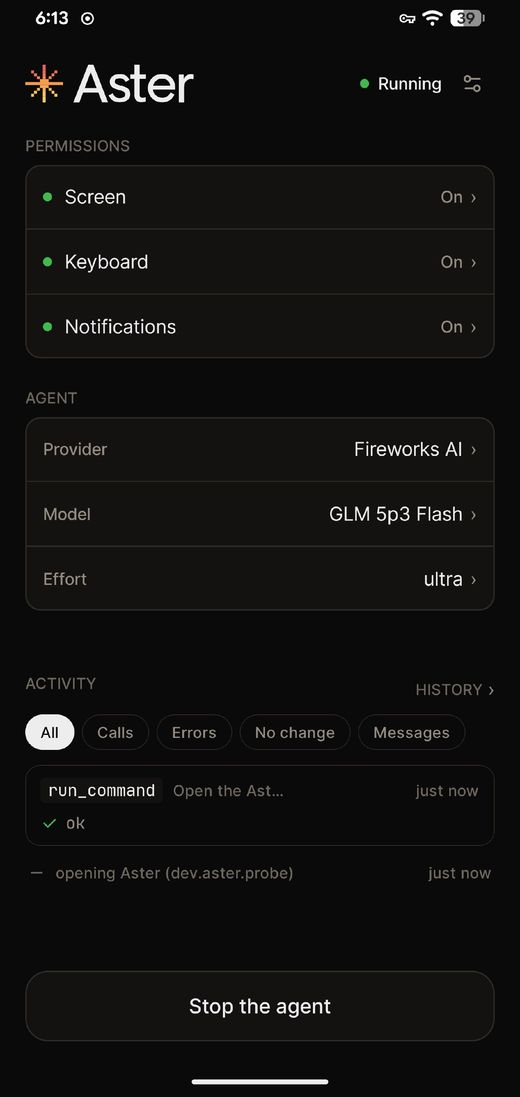
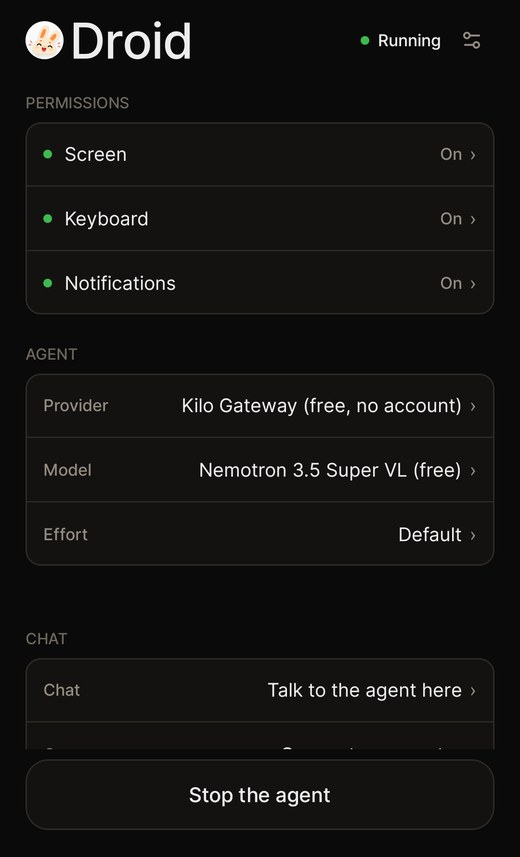
docs: show Droid in the README and drop the Aster screenshots
The README opens with the site's iMessage hero and Tap's icon, the screenshots are retaken from the current app, the architecture diagrams are mermaid so they stay current, and the docs say Droid where they said asterdroid.

diff --git a/README.md b/README.md
@@ -1,6 +1,6 @@
 <div align="center">
 
-<img src="docs/aster-logo.png" alt="Droid logo" width="88" />
+<img src="docs/droid-icon.png" alt="Droid, with Tap the bunny" width="96" />
 
 # Droid
 
@@ -10,13 +10,13 @@ An agent that uses your Android phone the way you do. Run it on any model,
 free and local ones included, drive the phone from any agent over MCP and ACP,
 and talk to it in the app, on Telegram, or on WhatsApp and iMessage through Photon.
 
-[![Release](https://img.shields.io/github/v/release/Zfinix/asterdroid?style=flat-square)](https://github.com/Zfinix/asterdroid/releases/latest)
+[![Release](https://img.shields.io/github/v/release/Zfinix/droid?style=flat-square)](https://github.com/Zfinix/droid/releases/latest)
 [![Platform](https://img.shields.io/badge/platform-Android-green?style=flat-square&logo=android&logoColor=white)](https://www.android.com/)
-[![Arch](https://img.shields.io/badge/arch-arm64--v8a-blue?style=flat-square)](https://github.com/Zfinix/asterdroid)
+[![Arch](https://img.shields.io/badge/arch-arm64--v8a-blue?style=flat-square)](https://github.com/Zfinix/droid)
 
-**[Website](https://droid.withaster.dev)** · [Get the app](https://github.com/Zfinix/asterdroid/releases/latest) · [Setup](docs/SETUP.md)
+**[Website](https://droid.withaster.dev)** · [Get the app](https://github.com/Zfinix/droid/releases/latest) · [Setup](docs/SETUP.md)
 
-<img src="docs/mirror-wordle.png" alt="A chat on the left, the phone's mirrored screen on the right" width="720" />
+<img src="docs/hero.jpg" alt="Droid in iMessage: asked to order the usual from KFC, it finds the deal, waits for a yes, places the order and says it will check on the driver" width="720" />
 
 </div>
 
@@ -32,7 +32,7 @@ Droid (`dev.aster.probe`) gives an AI agent your phone's screen. An accessibilit
 
 ## Quick start
 
-1. Install the APK from the [latest release](https://github.com/Zfinix/asterdroid/releases/latest) and open it.
+1. Install the APK from the [latest release](https://github.com/Zfinix/droid/releases/latest) and open it.
 2. Onboarding picks a model. **Try it free** needs no account and no key; you can also use a model on your computer or sign in with a provider.
 3. Choose where to talk to it: the chat in the app, Telegram, or Photon.
 4. Grant what it asks for: accessibility, the keyboard, notification access. Then say what you want done:
@@ -96,8 +96,8 @@ Start on free models with no key, connect a cloud provider, or use a model serve
 
 <table>
   <tr>
-    <td><img src="docs/shot-providers.jpg" alt="The provider picker: Baseten, DeepSeek, Fireworks AI, Google Gemini, Hugging Face Router, LM Studio, Ollama, OpenRouter and more" width="420" /></td>
-    <td><img src="docs/shot-settings.jpg" alt="The settings screen listing keys, all masked" width="420" /></td>
+    <td><img src="docs/shot-providers.jpg" alt="Onboarding, Choose a brain: Try it free with no account, Use my computer's model, or Sign in or use a key" width="420" /></td>
+    <td><img src="docs/shot-channel.jpg" alt="Onboarding, Where to talk to it: in this app, Telegram, iMessage or WhatsApp, or nowhere so other agents drive it" width="420" /></td>
   </tr>
 </table>
 
@@ -118,7 +118,7 @@ You can also swap the agent that runs on the phone for your own command. Details
 
 <div align="center">
 
-<img src="docs/shot-home.jpg" alt="The app home screen: permissions on, agent provider and model, live activity, and a Stop the agent button" width="360" />
+<img src="docs/shot-home.jpg" alt="The Droid home screen: permissions on, the free model, the chat, and a Stop the agent button" width="360" />
 
 </div>
 
@@ -141,7 +141,7 @@ After a run it scores its own rounds, keeps the shortest path, and saves it as a
 
 | doc | what is in it |
 | --- | --- |
-| [SETUP](docs/SETUP.md) | Telegram bot setup in detail, pushed `.env`, configuration variables, troubleshooting |
+| [SETUP](docs/SETUP.md) | Telegram in detail, configuring from a computer, configuration variables, troubleshooting |
 | [PROVIDERS](docs/PROVIDERS.md) | all 40 providers with key pages and env variables |
 | [USING](docs/USING.md) | chat commands, the control protocol, action receipts, the screen mirror, other agents over MCP |
 | [CLI](cli/README.md) | `@withaster/droid`: pairing a computer, `setup` for each client, the stdio MCP and ACP bridges |
@@ -154,8 +154,11 @@ After a run it scores its own rounds, keeps the shortest path, and saves it as a
 
 A foreground service runs the agent as a child process, with a bridge to Telegram or Photon when one is chosen. The agent calls `asterctl`, which talks to `AsterA11yService` over an abstract Unix socket; the service reads accessibility trees, dispatches gestures and captures screenshots. Other agents reach the same service through `asterctl mcp`, and editors reach the agent through `asterctl acp`. Full detail in [docs/ARCHITECTURE.md](docs/ARCHITECTURE.md).
 
-<div align="center">
-
-<img src="docs/architecture.png" alt="Architecture: the chat to the agent to asterctl to the accessibility service" width="640" />
-
-</div>
+```mermaid
+flowchart LR
+    you["You"] -->|"app, Telegram,<br>WhatsApp, iMessage"| agent["The agent<br>libaster.so"]
+    others["Claude Code, Codex,<br>Cursor, Zed, JetBrains"] -->|"MCP, ACP"| ctl
+    agent -->|"run_command"| ctl["asterctl"]
+    ctl -->|"abstract socket"| a11y["AsterA11yService"]
+    a11y -->|"read, tap, type"| screen["Your apps"]
+```

diff --git a/docs/ARCHITECTURE.md b/docs/ARCHITECTURE.md
@@ -1,8 +1,8 @@
-# asterdroid architecture
+# Droid architecture
 
 ## What this is
 
-asterdroid runs the real Aster agent on an Android phone. The app is `dev.aster.probe`. It reads the screen through an accessibility service, touches it the way a thumb does, and answers over Telegram. The person holding the conversation is usually nowhere near the phone.
+Droid runs the real Aster agent on an Android phone. The app is `dev.aster.probe`. It reads the screen through an accessibility service, touches it the way a thumb does, and answers in the app, on Telegram, or on WhatsApp and iMessage through Photon. The person holding the conversation is usually nowhere near the phone.
 
 It is not a port and not a subset. `build-agent.sh` cross-compiles `aster-cli` for `aarch64-linux-android` and ships it inside the APK as `libaster.so`. The tools, skills, prompts and review path are the code that runs in a terminal. It started as a measuring rig for the questions `docs/COMPUTER-USE.md` leaves open on Android, and it is now the daily-driver way to run Aster on a phone.
 
@@ -12,21 +12,29 @@ The hard part is not the model. A phone has no shell, so the screen is the only 
 
 ```mermaid
 flowchart LR
-    tg["Telegram"] <-->|"bot API"| agent
+    you["You"] -->|"in the app"| chat
+    you -->|"Telegram,<br>WhatsApp, iMessage"| bridge
+    host["Claude Code, Codex,<br>Cursor, any MCP client"] -->|"MCP"| mcp
+    editor["Zed, JetBrains"] -->|"ACP"| acpws
     subgraph phone["Android phone, app dev.aster.probe"]
-        svc["AsterAgentService<br>foreground service"] -->|"supervises,<br>restarts with backoff"| agent["libaster.so<br>aster remote telegram"]
-        agent -->|"run_command"| ctl["asterctl<br>libclient.so"]
+        svc["AsterAgentService<br>foreground service"] -->|"supervises"| bridge["libaster.so<br>aster remote telegram / spectrum"]
+        chat["In-app chat"] -->|"stdio"| acp["libaster.so<br>aster acp"]
+        svc -->|"supervises"| mcp["asterctl mcp"]
+        svc -->|"supervises"| acpws["asterctl acp --ws"]
+        acpws --> acp
+        bridge -->|"run_command"| ctl["asterctl<br>libclient.so"]
+        acp -->|"run_command"| ctl
+        mcp --> ctl
         ctl -->|"@aster-eyes<br>abstract socket"| a11y["AsterA11yService<br>accessibility service"]
-        a11y -->|"reads the tree,<br>dispatches gestures,<br>OCR fallback"| screen["the phone's screen"]
+        a11y -->|"reads the tree,<br>gestures, OCR"| screen["the phone's screen"]
         ime["AsterIme"] -.->|"typing"| screen
-        ctl --> serve["asterctl serve<br>the mirror"]
-        serve -->|"H.264 out,<br>touches in"| web["Browser"]
     end
 ```
 
 One process tree on the phone:
 
-- **Telegram** is the interface. The agent runs `remote telegram` as a child of `AsterAgentService`, in `yolo` mode, because there is no terminal on the phone to answer a permission prompt. Consent lives in the chat: before anything that leaves the device, the agent states the concrete effect in one line and then does it.
+- **The chat** is the interface: the in-app chat by default, which talks to an `aster acp` child over stdio, or a bridge (`remote telegram` for Telegram, `remote spectrum` for WhatsApp and iMessage through Photon) supervised by `AsterAgentService`. There is no terminal on the phone to answer a permission prompt, so consent lives in the chat: before anything that leaves the device, the agent states the concrete effect in one line and waits for a yes.
+- **Other agents** reach the phone without its own agent. `asterctl mcp` serves the screen to any MCP client, and `asterctl acp --ws` gives editors the agent over ACP.
 - **libaster.so** is the agent. It calls `asterctl` through `run_command`, the same way it calls anything else.
 - **asterctl** is the agent's body, a small Rust client. It speaks to the accessibility service over an abstract unix socket named `@aster-eyes`. Abstract means there is no file on disk and no permissions to get wrong. Connecting costs about 150 microseconds, which is why paying it per verb is fine.
 - **AsterA11yService** does the touching. It reads the pruned node tree, dispatches gestures, and falls back to OCR where the tree is blind.

diff --git a/docs/SETUP.md b/docs/SETUP.md
@@ -8,9 +8,9 @@ The short path is in the [README](../README.md#quick-start). This page is the sa
 
 Open [@BotFather](https://t.me/BotFather) in Telegram and send `/newbot`. Follow the prompts to name your bot and choose its username. BotFather returns a bot token. Copy it and keep the link to your new bot handy. See [Telegram's bot setup guide](https://core.telegram.org/bots/tutorial#obtain-your-bot-token) for details.
 
-### 2. Add the token to asterdroid
+### 2. Add the token to Droid
 
-On the Android phone, open asterdroid and tap the settings icon in the top right.
+On the Android phone, open Droid and tap the settings icon in the top right.
 
 - Paste the full bot token into **Telegram token**.
 - Select your model provider and enter its API key. The settings sheet shows the env variable each provider expects. The full list is in [PROVIDERS.md](PROVIDERS.md).
@@ -20,7 +20,7 @@ Save the settings. Changes are written to the agent's `.env`; saving a key resta
 
 ### 3. Start the agent and message your bot
 
-Press the start control on asterdroid's home screen. Wait for the notification to say **Connected to Telegram**.
+Press the start control on Droid's home screen. Wait for the notification to say **Connected to Telegram**.
 
 In Telegram, open the bot you just created and send `hello`. Send this to your own bot, not BotFather.
 
@@ -34,7 +34,7 @@ Copy the user ID from your reply. The number above is an example.
 
 ### 4. Allow your Telegram account
 
-Return to asterdroid's settings, paste that numeric ID into **Allowed ids**, and save. Use your user ID here, not your Telegram username or bot token. To allow multiple accounts, separate their IDs with commas.
+Return to Droid's settings, paste that numeric ID into **Allowed ids**, and save. Use your user ID here, not your Telegram username or bot token. To allow multiple accounts, separate their IDs with commas.
 
 The reply mentions `--user`, but on Android you configure this through **Allowed ids**. Once configured, the bot ignores accounts outside that list.
 
@@ -48,7 +48,7 @@ Open settings and turn on Do Not Disturb.
 
 The agent should respond and carry out the action on the Android phone. Use `/help` for chat commands, or `/mirror` to view the phone in a browser.
 
-If the bot does not reply, check that asterdroid says **Connected to Telegram**, that you opened the bot whose token you entered, and that **Allowed ids** contains the ID from your own reply.
+If the bot does not reply, check that Droid says **Connected to Telegram**, that you opened the bot whose token you entered, and that **Allowed ids** contains the ID from your own reply.
 
 ## Optional: configure from your computer
 

diff --git a/docs/ANDROID.md b/docs/ANDROID.md
@@ -1,8 +1,8 @@
-# asterdroid architecture
+# Droid on Android, in depth
 
 ## What this is
 
-asterdroid runs the real Aster agent on an Android phone. The app is `dev.aster.probe`. It reads the screen through an accessibility service, touches it the way a thumb does, and answers over Telegram. The person holding the conversation is usually nowhere near the phone.
+Droid runs the real Aster agent on an Android phone. The app is `dev.aster.probe`. It reads the screen through an accessibility service, touches it the way a thumb does, and answers in the app, on Telegram, or on WhatsApp and iMessage through Photon. The person holding the conversation is usually nowhere near the phone.
 
 It is not a port and not a subset. `build-agent.sh` cross-compiles `aster-cli` for `aarch64-linux-android` and ships it inside the APK as `libaster.so`. The tools, skills, prompts and review path are the code that runs in a terminal. It started as a measuring rig for the questions `docs/COMPUTER-USE.md` leaves open on Android, and it is now the daily-driver way to run Aster on a phone.
 
@@ -131,7 +131,7 @@ Three rules keep the verifier honest, and each one came from watching the agent 
 
 ## The instructions
 
-The load-bearing part of asterdroid is not Kotlin. It is `device-AGENTS.md`, shipped as `assets/AGENTS.md`, and the skills in `skills/`, shipped flat into assets by the Gradle `syncDocs` task.
+The load-bearing part of Droid is not Kotlin. It is `device-AGENTS.md`, shipped as `assets/AGENTS.md`, and the skills in `skills/`, shipped flat into assets by the Gradle `syncDocs` task.
 
 Those files are the agent's entire understanding of what it is and where it is. Changing behavior means changing those files, not adding code. `Install.kt` refreshes the binaries, skills and instructions on every service start, so shipping a behavior change needs nobody to open the app. Change the Markdown, rebuild, install, and the next service start picks it up.
 
